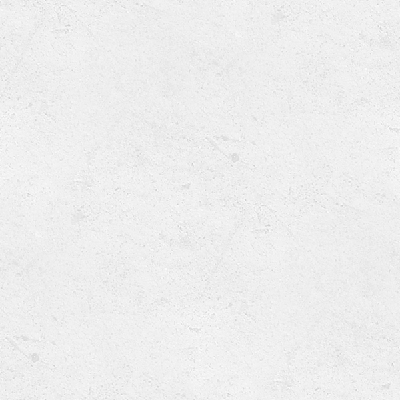
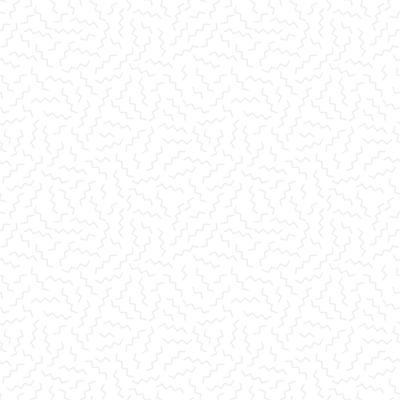
Cleaned up images folder, made various instances of text more mobile-responsive, made it so textarea on Contact page can't be dragged bigger

diff --git a/index.html b/index.html
@@ -73,10 +73,10 @@
           </h2>
 
           <div class="float-left ml-3 mr-4 my-4">
-            <img src="assets/images/profile-picture.jpg" alt="profile picture" />
+            <img id="profPic" src="assets/images/profile-picture.jpg" alt="profile picture" />
           </div>
 
-          <p class="text-primary mx-3 mt-4" style="line-height: 2;">Front-end Web Developer with a background in ESL.
+          <p id="summaryText" class="text-primary mx-3 mt-4" style="line-height: 2;">Front-end Web Developer with a background in ESL.
             Educated at the University of Minnesota with skills in HTML, CSS, JavaScript and jQuery. Can speak, read and
             write Spanish well, and have strengths in creativity, written communication and logical problem-solving.
             Passionate about planning and building interesting web applications and finding efficient and elegant

diff --git a/assets/css/style.css b/assets/css/style.css
@@ -12,12 +12,20 @@ body {
 }
 
 #contactStuff {
-    background-image: url("../images/small-bg-2.png");
+    background-image: url("../images/small-bg.png");
     height: calc(100% - 48px);
+}
+
+#inputMessage {
+    resize: none;
 }
 
 #contactLinkedIn {
     font-size: 35px;
+}
+
+#summaryText, #contactStuff, #contactStuff > h6 {
+    font-size: 17px;
 }
 
 .navbar-nav {
@@ -98,10 +106,32 @@ body {
     #brandText, h2 {
         font-size: 1.3rem;
     }
+
+    h4 {
+        font-size: 1.2rem;
+    }
+}
+
+@media screen and (max-width: 374px) {
+    #summaryText {
+        font-size: 15px;
+    }
 }
 
 @media screen and (max-width: 359px) {
+    #profPic {
+        max-width: 160px;
+    }
+
+    #summaryText {
+        font-size: 14px;
+    }
+
     #brandText, h2 {
         font-size: 1.07rem;
+    }
+
+    h4 {
+        font-size: 1rem;
     }
 }
